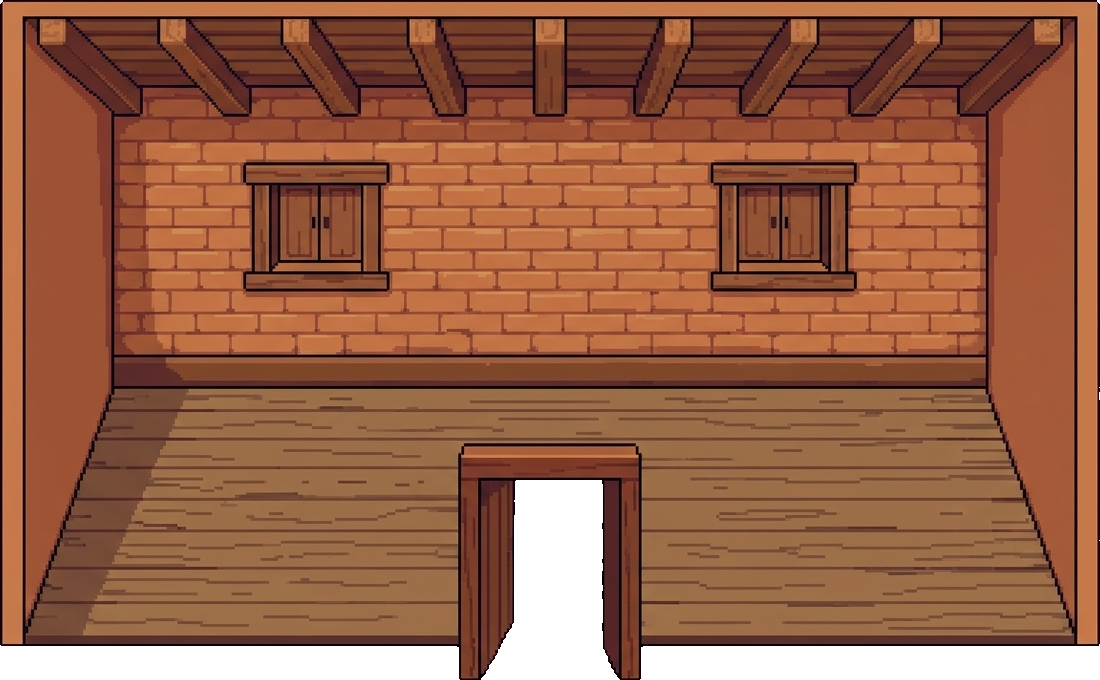
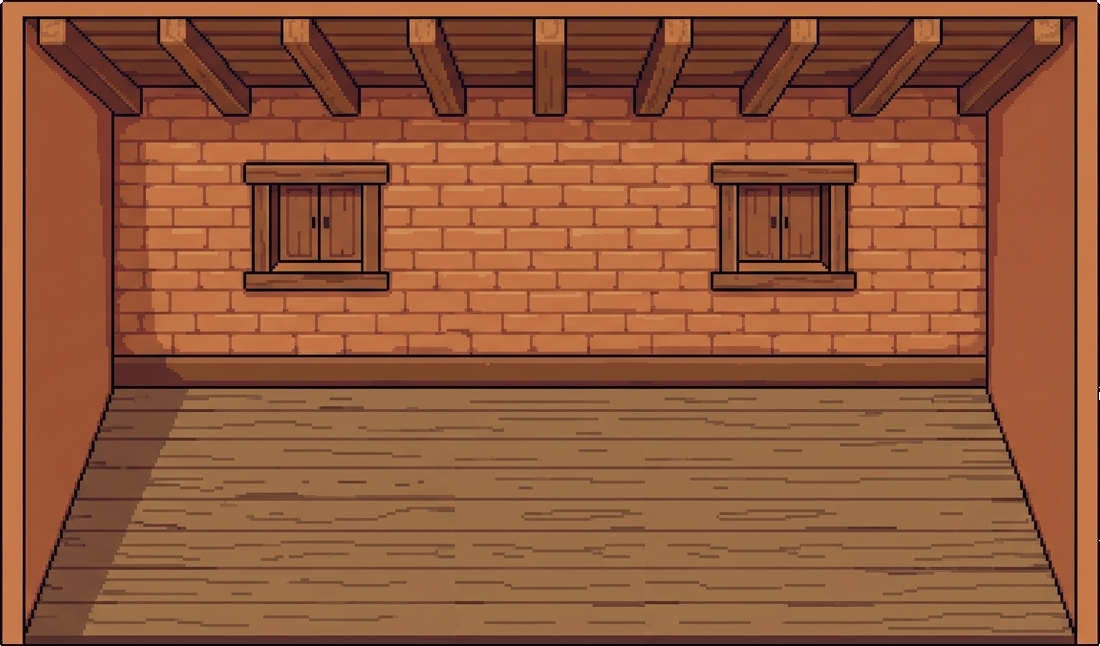
fix: la casa se ve proporcionada y sin elementos sueltos
- Guardián más grande dentro de la casa; cama y baúl un poco más chicos
- Sin el marco de puerta suelto a mitad del piso ni la franja gris de abajo; la salida es una luz en la orilla
- Sombras bajo los muebles, animales apoyados en la repisa, cuadro con marco de madera y "!" con la fuente del juego
- El mensaje de bienvenida se desvanece solo

diff --git a/tools/arte/procesar.py b/tools/arte/procesar.py
@@ -661,7 +661,11 @@ def animales_valle() -> None:
 def casa() -> None:
     """Interior de la casa del guardián y sus muebles."""
     rgba = quitar_fondo(cargar("casa_interior.jpg"))
-    guardar(recortar(rgba, separar_objetos(rgba)[0]), ASSETS / "maps/casa/interior.png")
+    cuarto = recortar(rgba, separar_objetos(rgba)[0])
+    # La IA dibujó la puerta como un marco suelto a mitad del piso: se tapa con el piso de al lado
+    # (las tablas son horizontales y empatan) y se corta lo que queda debajo del piso.
+    cuarto.paste(cuarto.crop((650, 440, 840, 646)), (455, 440))
+    guardar(cuarto.crop((0, 0, cuarto.width, 646)), ASSETS / "maps/casa/interior.png")
     # Orden: cama, tabla de arriba de la repisa, tablero, baúl, tabla de abajo, alfombra,
     # lámpara, pecera, maceta. Las dos tablas son una sola repisa.
     rgba = quitar_fondo(cargar("casa_muebles.jpg"))
